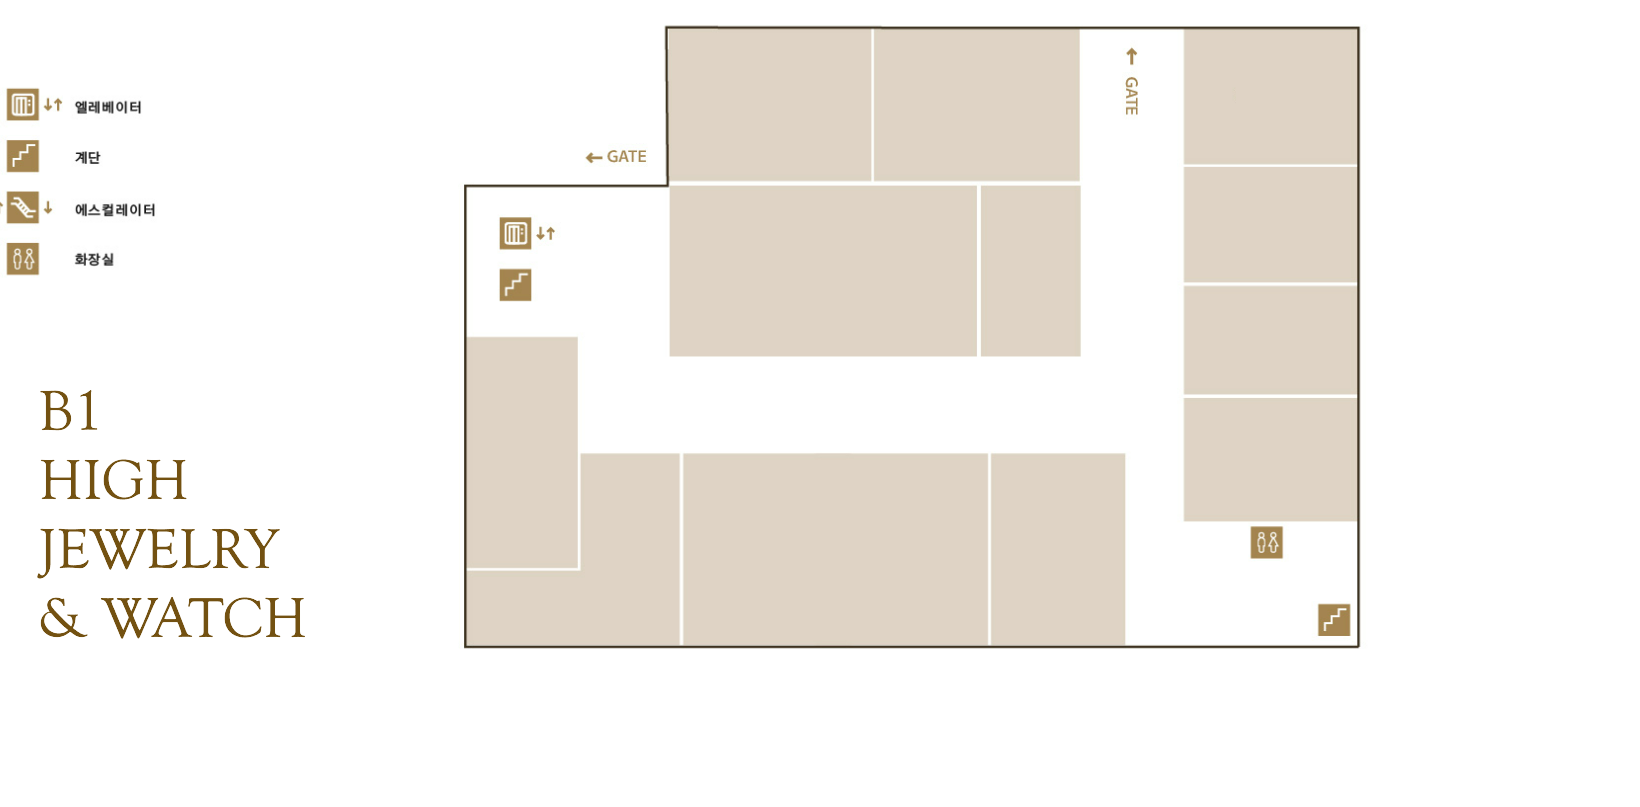
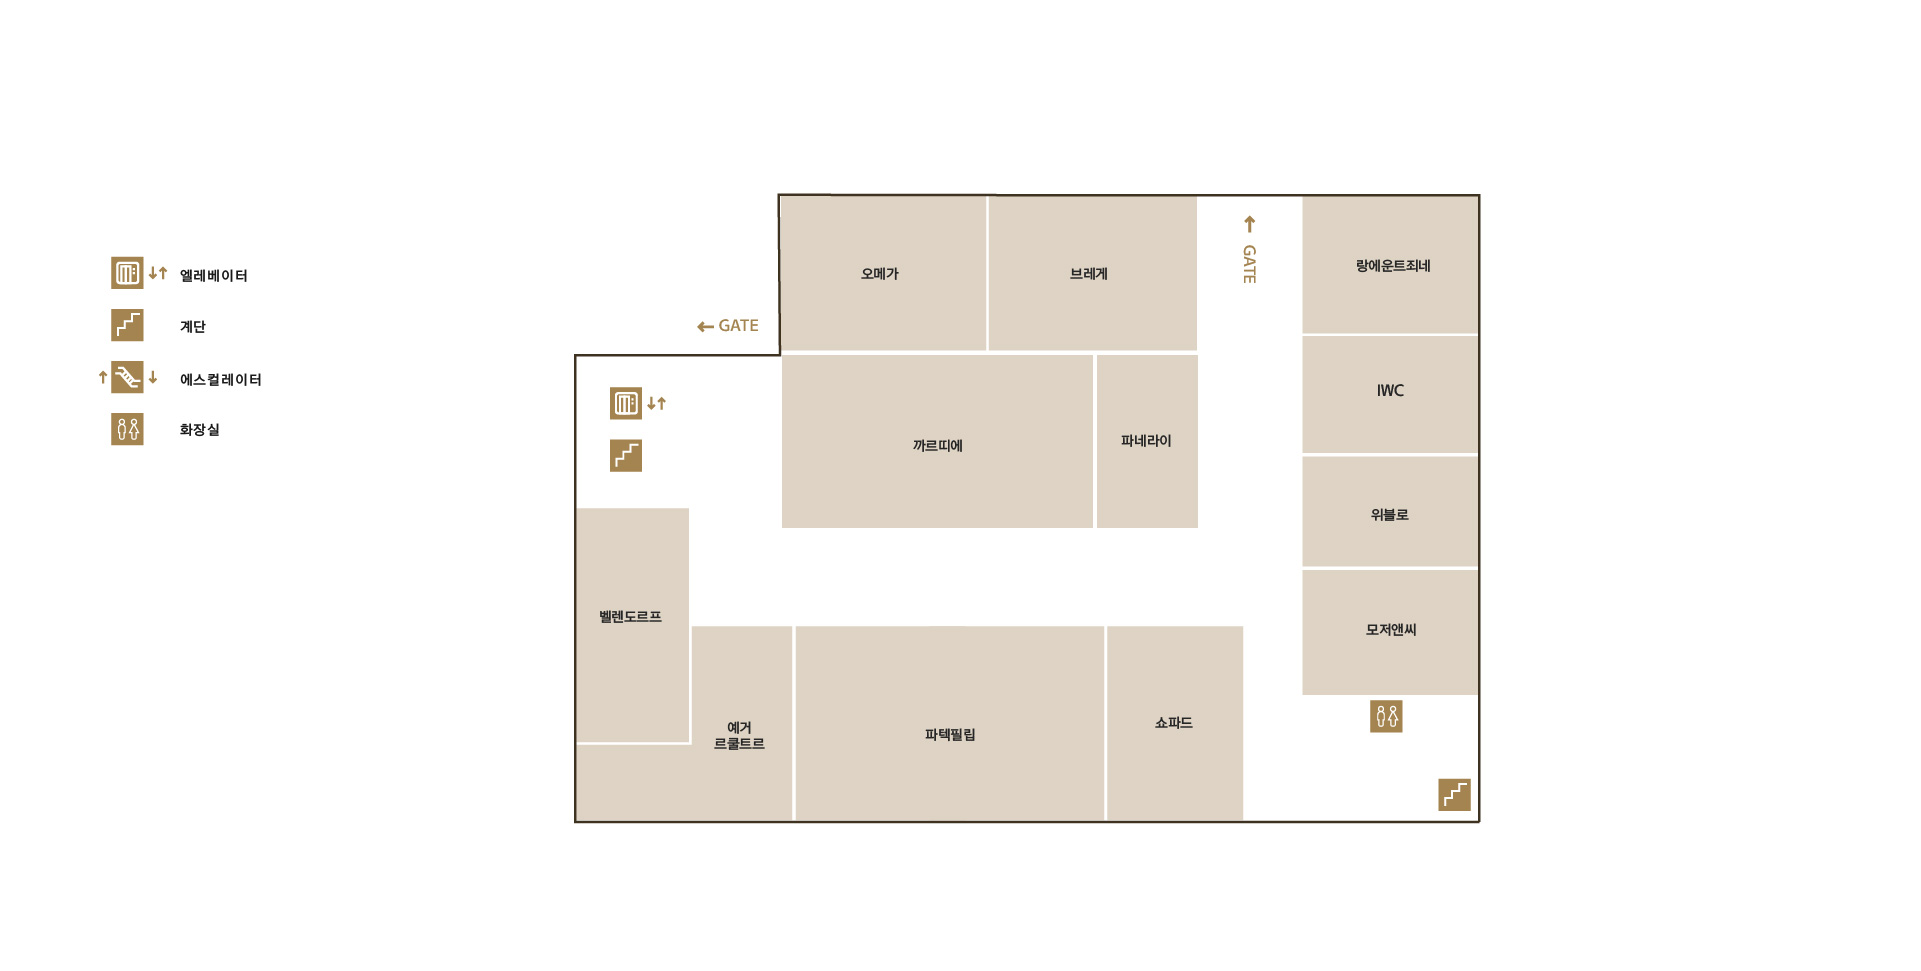
ver1

diff --git a/src/modules/storemap/views/StoreMapPage.vue b/src/modules/storemap/views/StoreMapPage.vue
@@ -1,16 +1,10 @@
 <template>
   <div class="map-container" ref="containerRef">
-
-    <!-- zoom + pan wrapper -->
+    
     <div
       class="zoom-wrapper"
-      :style="{
-        transform: `translate(${translateX}px, ${translateY}px) scale(${zoomLevel})`,
-        transformOrigin: 'top left'
-      }"
       ref="zoomWrapperRef"
     >
-
       <!-- floor image -->
       <div class="image-wrapper">
         <img
@@ -28,8 +22,8 @@
             :key="area.id"
             class="label-item"
             :style="{
-              left: area.textX + 'px',
-              top: area.textY + 'px',
+              left: area.textXPct + '%',
+              top: area.textYPct + '%',
               maxWidth: area.maxWidth + 'px'
             }"
           >
@@ -93,105 +87,62 @@ const currentFloor = computed(() => floorConfig[currentLevel.value]);
 const reloadSrc = ref("");
 watch(
   () => currentFloor.value.img,
-  img => (reloadSrc.value = `${img}?v=${Date.now()}`),
+  img => {
+    reloadSrc.value = img;
+  },
   { immediate: true }
 );
 
-/* ---------------------------
-   storeNamesMap (DB 매장 이름)
-----------------------------*/
+/* store names */
 const storeNamesMap = ref(new Map());
 
 async function loadStoreNames() {
-  try {
-    const res = await fetchStoreNames();
-    const map = new Map();
-    res.data.forEach(s => {
-      map.set(s.storeId, s.storeDisplayName);
-    });
-    storeNamesMap.value = map;
-  } catch (e) {
-    console.error("❌ Failed to load store names", e);
-  }
+  const res = await fetchStoreNames();
+  const map = new Map();
+  res.data.forEach(s => map.set(s.storeId, s.storeDisplayName));
+  storeNamesMap.value = map;
 }
 
 onMounted(loadStoreNames);
 
-/* ---------------------------
-   이미지 로드 이후 렌더링 다시 실행
-----------------------------*/
+/* 좌표 처리 */
 const imageRef = ref(null);
-
-watch(storeNamesMap, () => {
-  if (imageRef.value) {
-    handleImageLoad({ target: imageRef.value });
-  }
-});
-
-/* ---------------------------
-   좌표 스케일링
-----------------------------*/
 const renderedAreas = ref([]);
 
-watch(currentLevel, () => {
-  renderedAreas.value = [];
+watch(storeNamesMap, () => {
+  if (imageRef.value) handleImageLoad({ target: imageRef.value });
 });
 
-function getAreaBox(originalCoords, scaleX, scaleY) {
-  const nums = originalCoords.split(",").map(Number);
-  const xs = [], ys = [];
-
-  for (let i = 0; i < nums.length; i += 2) {
-    xs.push(nums[i] * scaleX);
-    ys.push(nums[i + 1] * scaleY);
-  }
-
-  return {
-    width: Math.max(...xs) - Math.min(...xs),
-  };
-}
-
-function scaleCoords(original, scaleX, scaleY) {
-  return original
-    .split(",")
-    .map(Number)
-    .map((c, i) => (i % 2 === 0 ? c * scaleX : c * scaleY))
-    .join(",");
-}
-
-/* ---------------------------
-   이미지 로딩 시 오버레이 적용
-----------------------------*/
-function handleImageLoad(event) {
-  const img = event.target;
-
+function handleImageLoad(e) {
+  const img = e.target;
   const scaleX = img.clientWidth / img.naturalWidth;
   const scaleY = img.clientHeight / img.naturalHeight;
 
   renderedAreas.value = currentFloor.value.areas.map(a => {
-    const sid = a.storeId ?? Number(a.id);
-
-    const storeName = storeNamesMap.value.get(sid);
-    const displayName =
-      storeName && storeName.trim() !== "" ? storeName : "공실";
-
-    const box = getAreaBox(a.coords, scaleX, scaleY);
+    const coordsNums = a.coords.split(",").map(Number);
 
     return {
       ...a,
-      storeId: sid,
-      scaledCoords: scaleCoords(a.coords, scaleX, scaleY),
-      textX: a.x * scaleX,
-      textY: a.y * scaleY,
-      maxWidth: box.width * 0.9,
-      displayName
+      // 이미지맵 영역은 여전히 스케일된 px 좌표 사용
+      scaledCoords: coordsNums
+        .map((c, i) => (i % 2 === 0 ? c * scaleX : c * scaleY))
+        .join(","),
+
+      
+      textXPct: (a.x / img.naturalWidth) * 100,
+      textYPct: (a.y / img.naturalHeight) * 100,
+
+      // 박스 폭은 그대로 px로 (브라우저 줌이 함께 키워줌)
+      maxWidth: 120,
+
+      displayName: storeNamesMap.value.get(a.storeId) || "공실"
     };
   });
+
+  centerMapOnLoad();
 }
 
-/* ---------------------------
-   모달
-----------------------------*/
+/* modal */
 const dialog = ref(false);
 const selectedStoreId = ref(null);
 
@@ -200,78 +151,66 @@ function openModal(area) {
   dialog.value = true;
 }
 
-/* ---------------------------
-   zoom + pan
-----------------------------*/
-const zoomLevel = ref(1);
-const translateX = ref(0);
-const translateY = ref(0);
-
+/* zoom only (커스텀 줌 제거: 브라우저 줌만 사용) */
 const containerRef = ref(null);
 const zoomWrapperRef = ref(null);
 
-let isPanning = false;
-let startX = 0;
-let startY = 0;
+function centerMapOnLoad() {
+  const container = containerRef.value;
+  const img = imageRef.value;
 
-onMounted(() => {
-  containerRef.value.addEventListener(
-    "wheel",
-    e => {
-      if (e.ctrlKey) {
-        e.preventDefault();
-        zoomLevel.value += e.deltaY < 0 ? 0.1 : -0.1;
-        zoomLevel.value = Math.min(Math.max(zoomLevel.value, 0.5), 3);
-      }
-    },
-    { passive: false }
-  );
+  if (!container || !img) return;
 
-  zoomWrapperRef.value.addEventListener("mousedown", e => {
-    isPanning = true;
-    startX = e.clientX - translateX.value;
-    startY = e.clientY - translateY.value;
-  });
+  // 보정값 (px 단위)
+  const OFFSET_X = 120; // ← 이 값만 조정하면 됨
+  const OFFSET_Y = 0;   // 필요하면 나중에 사용
 
-  window.addEventListener("mousemove", e => {
-    if (!isPanning) return;
-    translateX.value = e.clientX - startX;
-    translateY.value = e.clientY - startY;
-  });
+  if (img.scrollWidth > container.clientWidth) {
+    container.scrollLeft =
+      (img.scrollWidth - container.clientWidth) / 2 + OFFSET_X;
+  }
 
-  window.addEventListener("mouseup", () => {
-    isPanning = false;
-  });
+  if (img.scrollHeight > container.clientHeight) {
+    container.scrollTop =
+      (img.scrollHeight - container.clientHeight) / 2 + OFFSET_Y;
+  }
+}
 
-  zoomWrapperRef.value.addEventListener("dblclick", () => {
-    zoomLevel.value = Math.min(zoomLevel.value + 0.2, 3);
-  });
-});
 </script>
 
 <style scoped>
 .map-container {
   width: 100%;
   height: calc(100vh - 80px);
-  overflow: hidden;
+  overflow: auto;
   position: relative;
 }
-.zoom-wrapper { position: absolute; left: 0; top: 0; cursor: grab; }
-.zoom-wrapper:active { cursor: grabbing; }
-.image-wrapper { position: relative; }
-.map-image { max-width: 100%; display: block; }
-.label-overlay { position: absolute; top: 0; left: 0; width:100%; height:100%; pointer-events:none; }
+
+.zoom-wrapper {
+  position: relative;
+  display: inline-block;
+  cursor: default;
+}
+
+.image-wrapper {
+  position: relative;
+}
+
+.map-image {
+  display: block;
+}
+
+.label-overlay {
+  position: absolute;
+  inset: 0;
+  pointer-events: none;
+}
+
 .label-item {
   position: absolute;
   transform: translate(-50%, -50%);
-  background: none;
-  padding: 0;
   font-size: 13px;
   font-weight: 600;
-  white-space: normal;
-  word-break: keep-all;
-  overflow-wrap: break-word;
-  line-height: 1.2;
   text-align: center;
 }
 </style>
